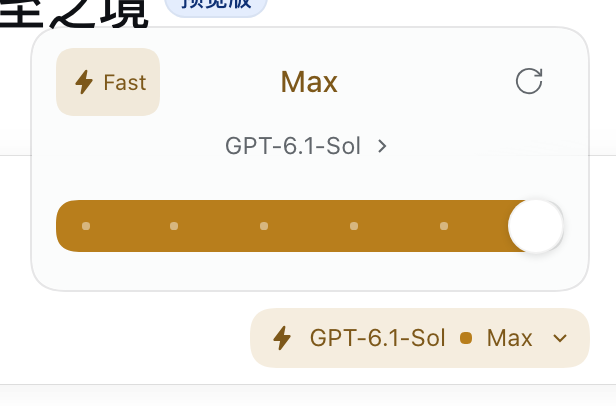
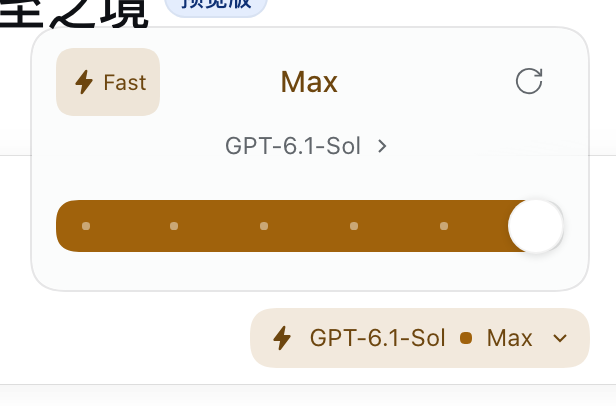
feat(codex-fast): raise reasoning level contrast
Replace the muted effort palette with saturated, clearly separated hues: grey, blue, violet, green, orange and red. The previous ramp kept every step close in saturation and lightness, so adjacent levels (especially High/Max) were hard to tell apart. The Fast ramp now spans a wider light-to-deep gold range as well.

Add docs/effort-levels.png showing all six levels rendered by the component. Verified in the running page at Max with and without Fast; no console errors, model selection restored afterwards.

Changed region(s): [[0.0925, 0.4729, 0.8636, 0.6207], [0.7403, 0.798, 0.7711, 0.8571]]

diff --git a/dsh-codex-fast/client.js b/dsh-codex-fast/client.js
@@ -6,19 +6,19 @@ window.__ModuleLoader__.load({
     const { createPortal } = require('react-dom')
     const { MenuSurface, useAnchoredPosition, useDismissOnOutsidePointer, IconRefreshOutlineRegular, IconSlidersTwoOutlineRegular } = require('@deepseek-ai/dsh-client-ui-primitives')
     const styles = `
-      .mc-root, .mc-panel { --mc-effort: #8b8f96; --mc-fill: var(--mc-effort); --mc-ink: color-mix(in srgb, var(--mc-fill) 65%, var(--dsw-alias-label-primary, #0f1115)); }
-      .mc-root[data-level="0"], .mc-panel[data-level="0"] { --mc-effort: #8b8f96; }
-      .mc-root[data-level="1"], .mc-panel[data-level="1"] { --mc-effort: #7d93b3; }
-      .mc-root[data-level="2"], .mc-panel[data-level="2"] { --mc-effort: #5f9a8c; }
-      .mc-root[data-level="3"], .mc-panel[data-level="3"] { --mc-effort: #8a9b5e; }
-      .mc-root[data-level="4"], .mc-panel[data-level="4"] { --mc-effort: #bf9055; }
-      .mc-root[data-level="5"], .mc-panel[data-level="5"] { --mc-effort: #b4634c; }
-      .mc-root[data-fast="true"][data-level="0"], .mc-panel[data-fast="true"][data-level="0"] { --mc-fill: #b7a88f; }
-      .mc-root[data-fast="true"][data-level="1"], .mc-panel[data-fast="true"][data-level="1"] { --mc-fill: #d3b06a; }
+      .mc-root, .mc-panel { --mc-effort: #6b7280; --mc-fill: var(--mc-effort); --mc-ink: color-mix(in srgb, var(--mc-fill) 65%, var(--dsw-alias-label-primary, #0f1115)); }
+      .mc-root[data-level="0"], .mc-panel[data-level="0"] { --mc-effort: #6b7280; }
+      .mc-root[data-level="1"], .mc-panel[data-level="1"] { --mc-effort: #2563eb; }
+      .mc-root[data-level="2"], .mc-panel[data-level="2"] { --mc-effort: #7c3aed; }
+      .mc-root[data-level="3"], .mc-panel[data-level="3"] { --mc-effort: #16a34a; }
+      .mc-root[data-level="4"], .mc-panel[data-level="4"] { --mc-effort: #ea580c; }
+      .mc-root[data-level="5"], .mc-panel[data-level="5"] { --mc-effort: #dc2626; }
+      .mc-root[data-fast="true"][data-level="0"], .mc-panel[data-fast="true"][data-level="0"] { --mc-fill: #c9b48c; }
+      .mc-root[data-fast="true"][data-level="1"], .mc-panel[data-fast="true"][data-level="1"] { --mc-fill: #dfc07a; }
       .mc-root[data-fast="true"][data-level="2"], .mc-panel[data-fast="true"][data-level="2"] { --mc-fill: #d8a94f; }
-      .mc-root[data-fast="true"][data-level="3"], .mc-panel[data-fast="true"][data-level="3"] { --mc-fill: #cf9c38; }
-      .mc-root[data-fast="true"][data-level="4"], .mc-panel[data-fast="true"][data-level="4"] { --mc-fill: #c58d26; }
-      .mc-root[data-fast="true"][data-level="5"], .mc-panel[data-fast="true"][data-level="5"] { --mc-fill: #b87e1c; }
+      .mc-root[data-fast="true"][data-level="3"], .mc-panel[data-fast="true"][data-level="3"] { --mc-fill: #c9922f; }
+      .mc-root[data-fast="true"][data-level="4"], .mc-panel[data-fast="true"][data-level="4"] { --mc-fill: #b87a1a; }
+      .mc-root[data-fast="true"][data-level="5"], .mc-panel[data-fast="true"][data-level="5"] { --mc-fill: #a0620c; }
       .mc-trigger, .mc-panel button { appearance: none; font: inherit; cursor: pointer; color: inherit; border: 0; background: transparent; }
       .mc-trigger { display: flex; align-items: center; gap: 7px; min-height: 28px; max-width: 310px; padding: 3px 9px; border-radius: 999px; font-size: 12px; color: var(--dsw-alias-label-secondary, #61666b); }
       .mc-trigger[data-fast="true"] { background: color-mix(in srgb, var(--mc-fill) 14%, transparent); color: var(--mc-ink); }

diff --git a/dsh-codex-fast/README.md b/dsh-codex-fast/README.md
@@ -6,7 +6,9 @@
 
 ![开启 Fast 后的金色状态](docs/fast-control.png)
 
-每个推理等级有自己的颜色：Default 灰、Low 蓝、Medium 青、High 绿、Xhigh 琥珀、Max 陶土，等级标题、滑杆和输入框胶囊上的小圆点同步变色。Fast 开启后改用由浅到深的金色梯度，仍然能看出档位差别。
+![六个推理等级的配色](docs/effort-levels.png)
+
+每个推理等级有自己的颜色：Default 灰、Low 蓝、Medium 紫、High 绿、Xhigh 橙、Max 红，等级标题、滑杆和输入框胶囊上的小圆点同步变色。Fast 开启后改用由浅到深的金色梯度，仍然能看出档位差别。
 
 浮层顶部是当前推理等级，左侧是 Fast，右侧是重置；中间一行切换模型；底部是按档位的推理强度滑杆。点击输入框里的胶囊重新打开，`Esc` 关闭并把焦点还给胶囊。
 
